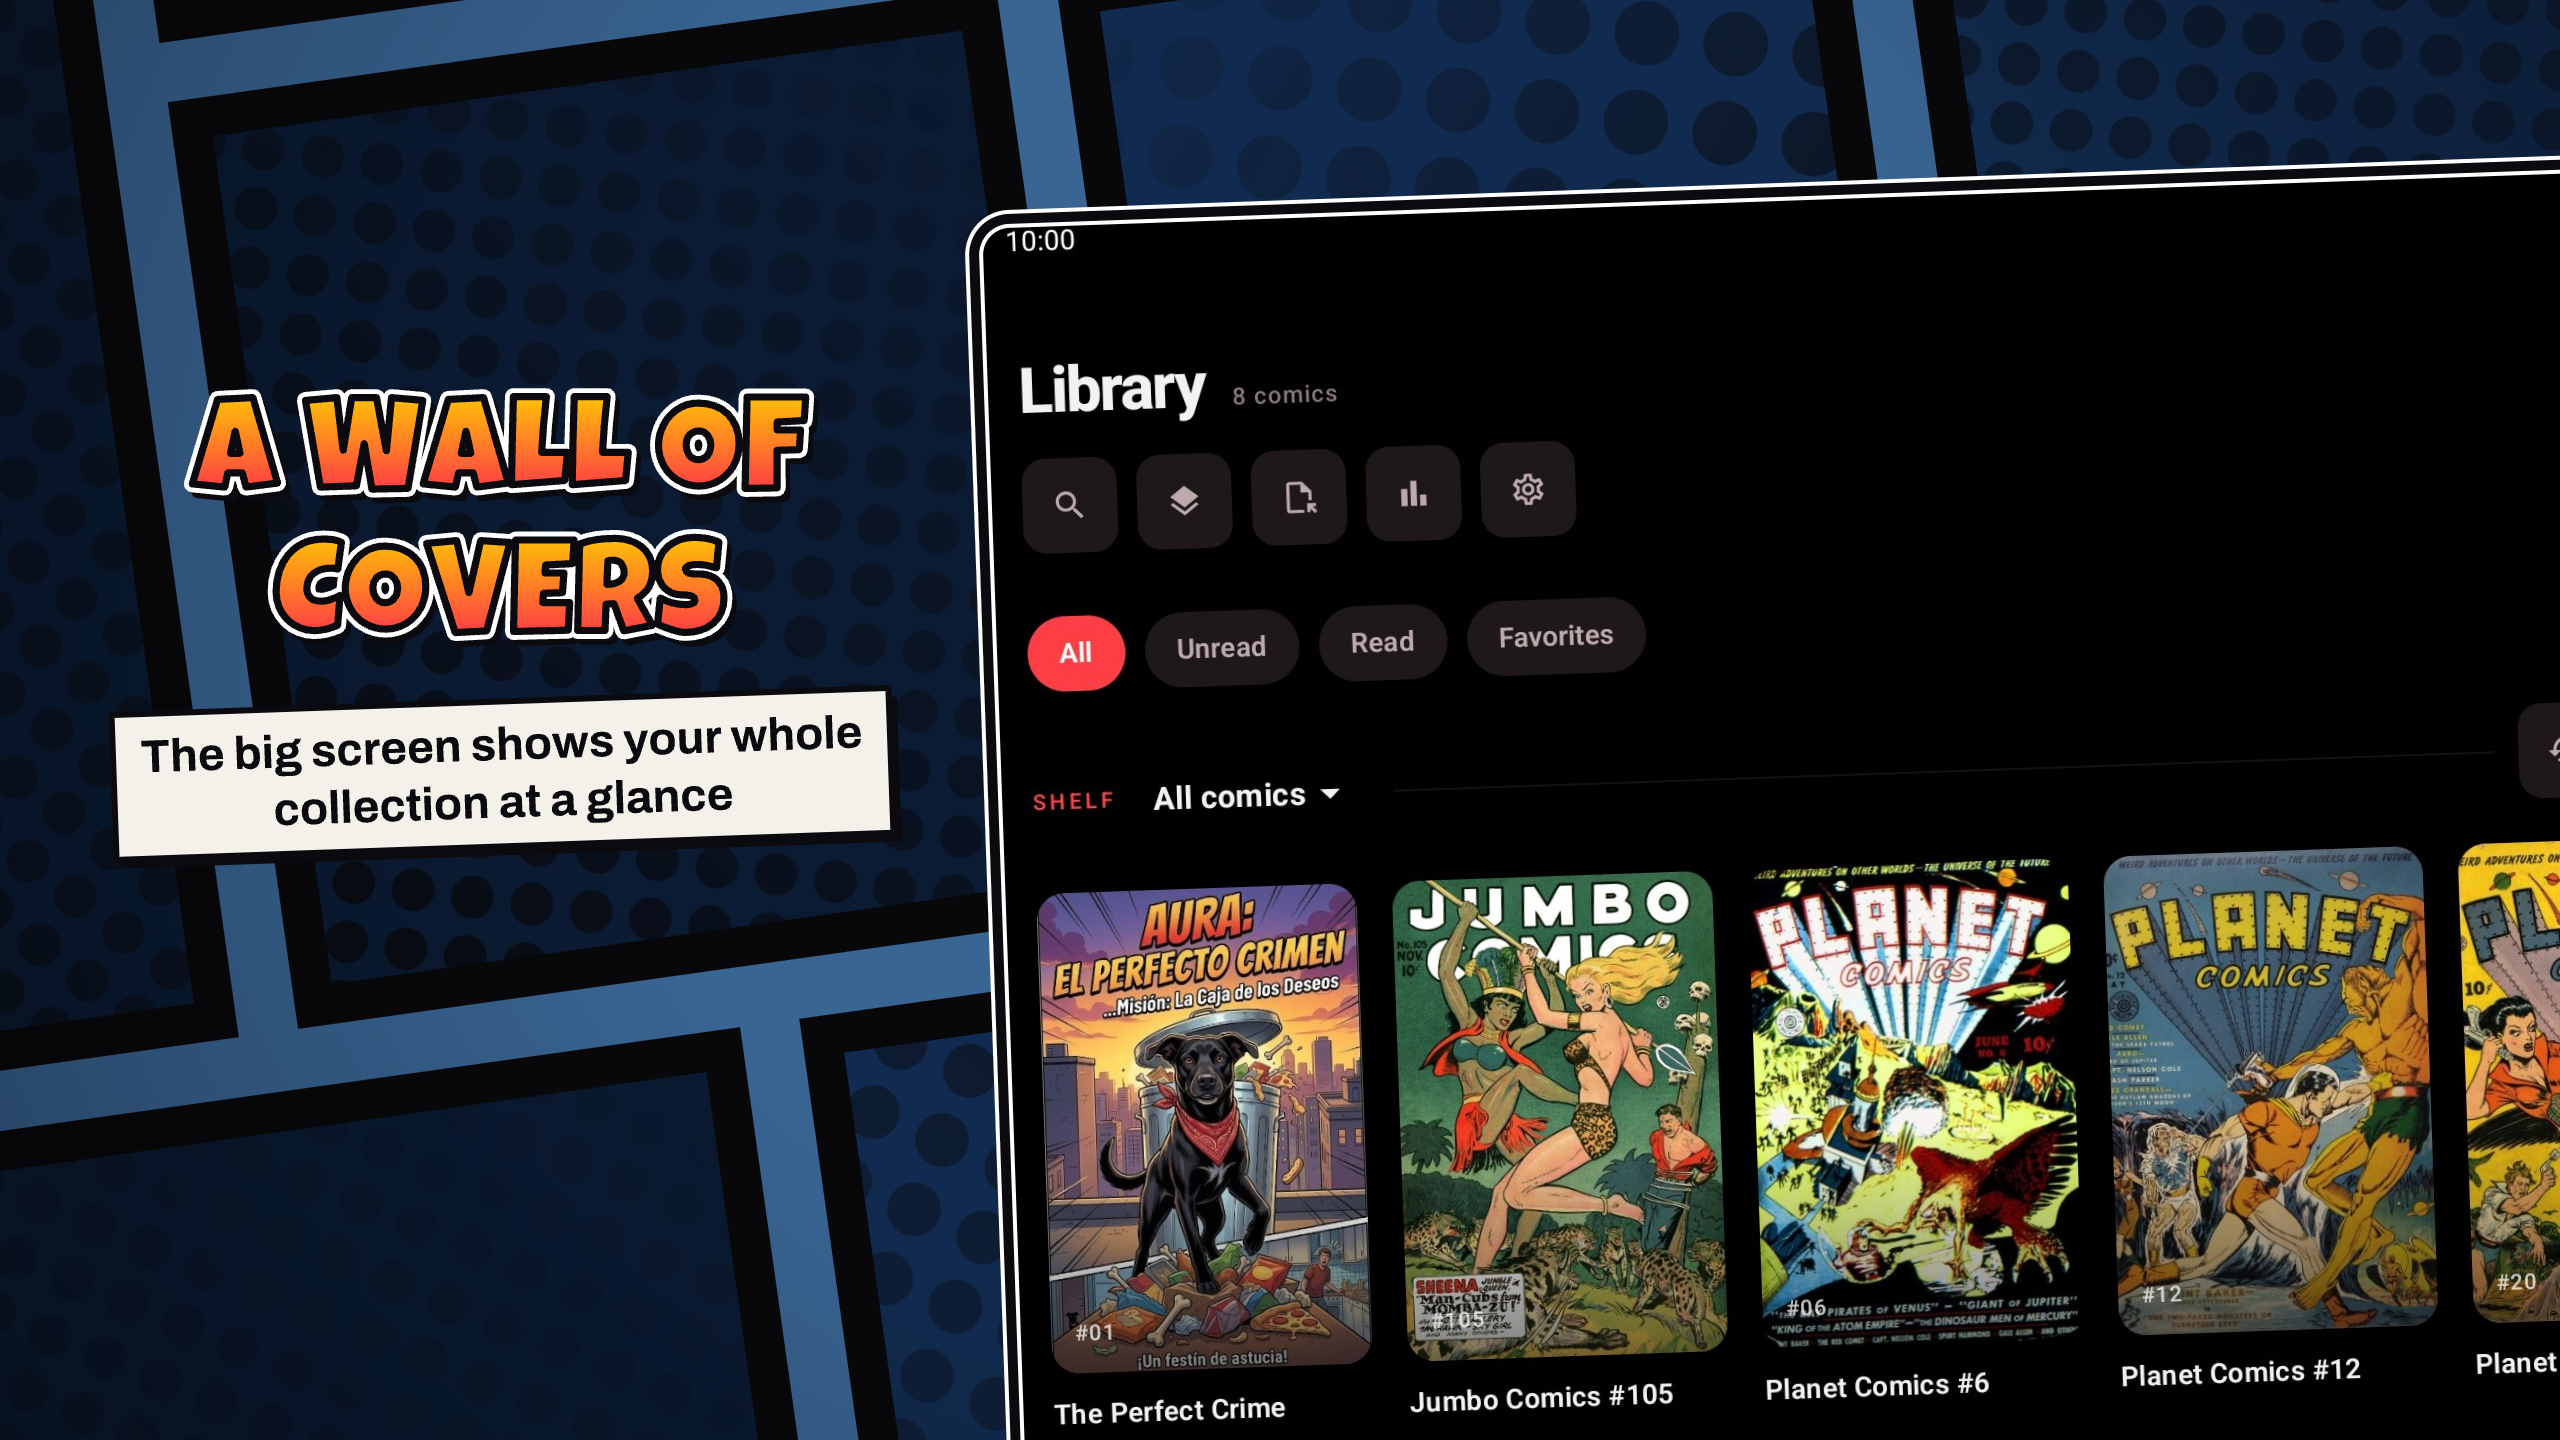
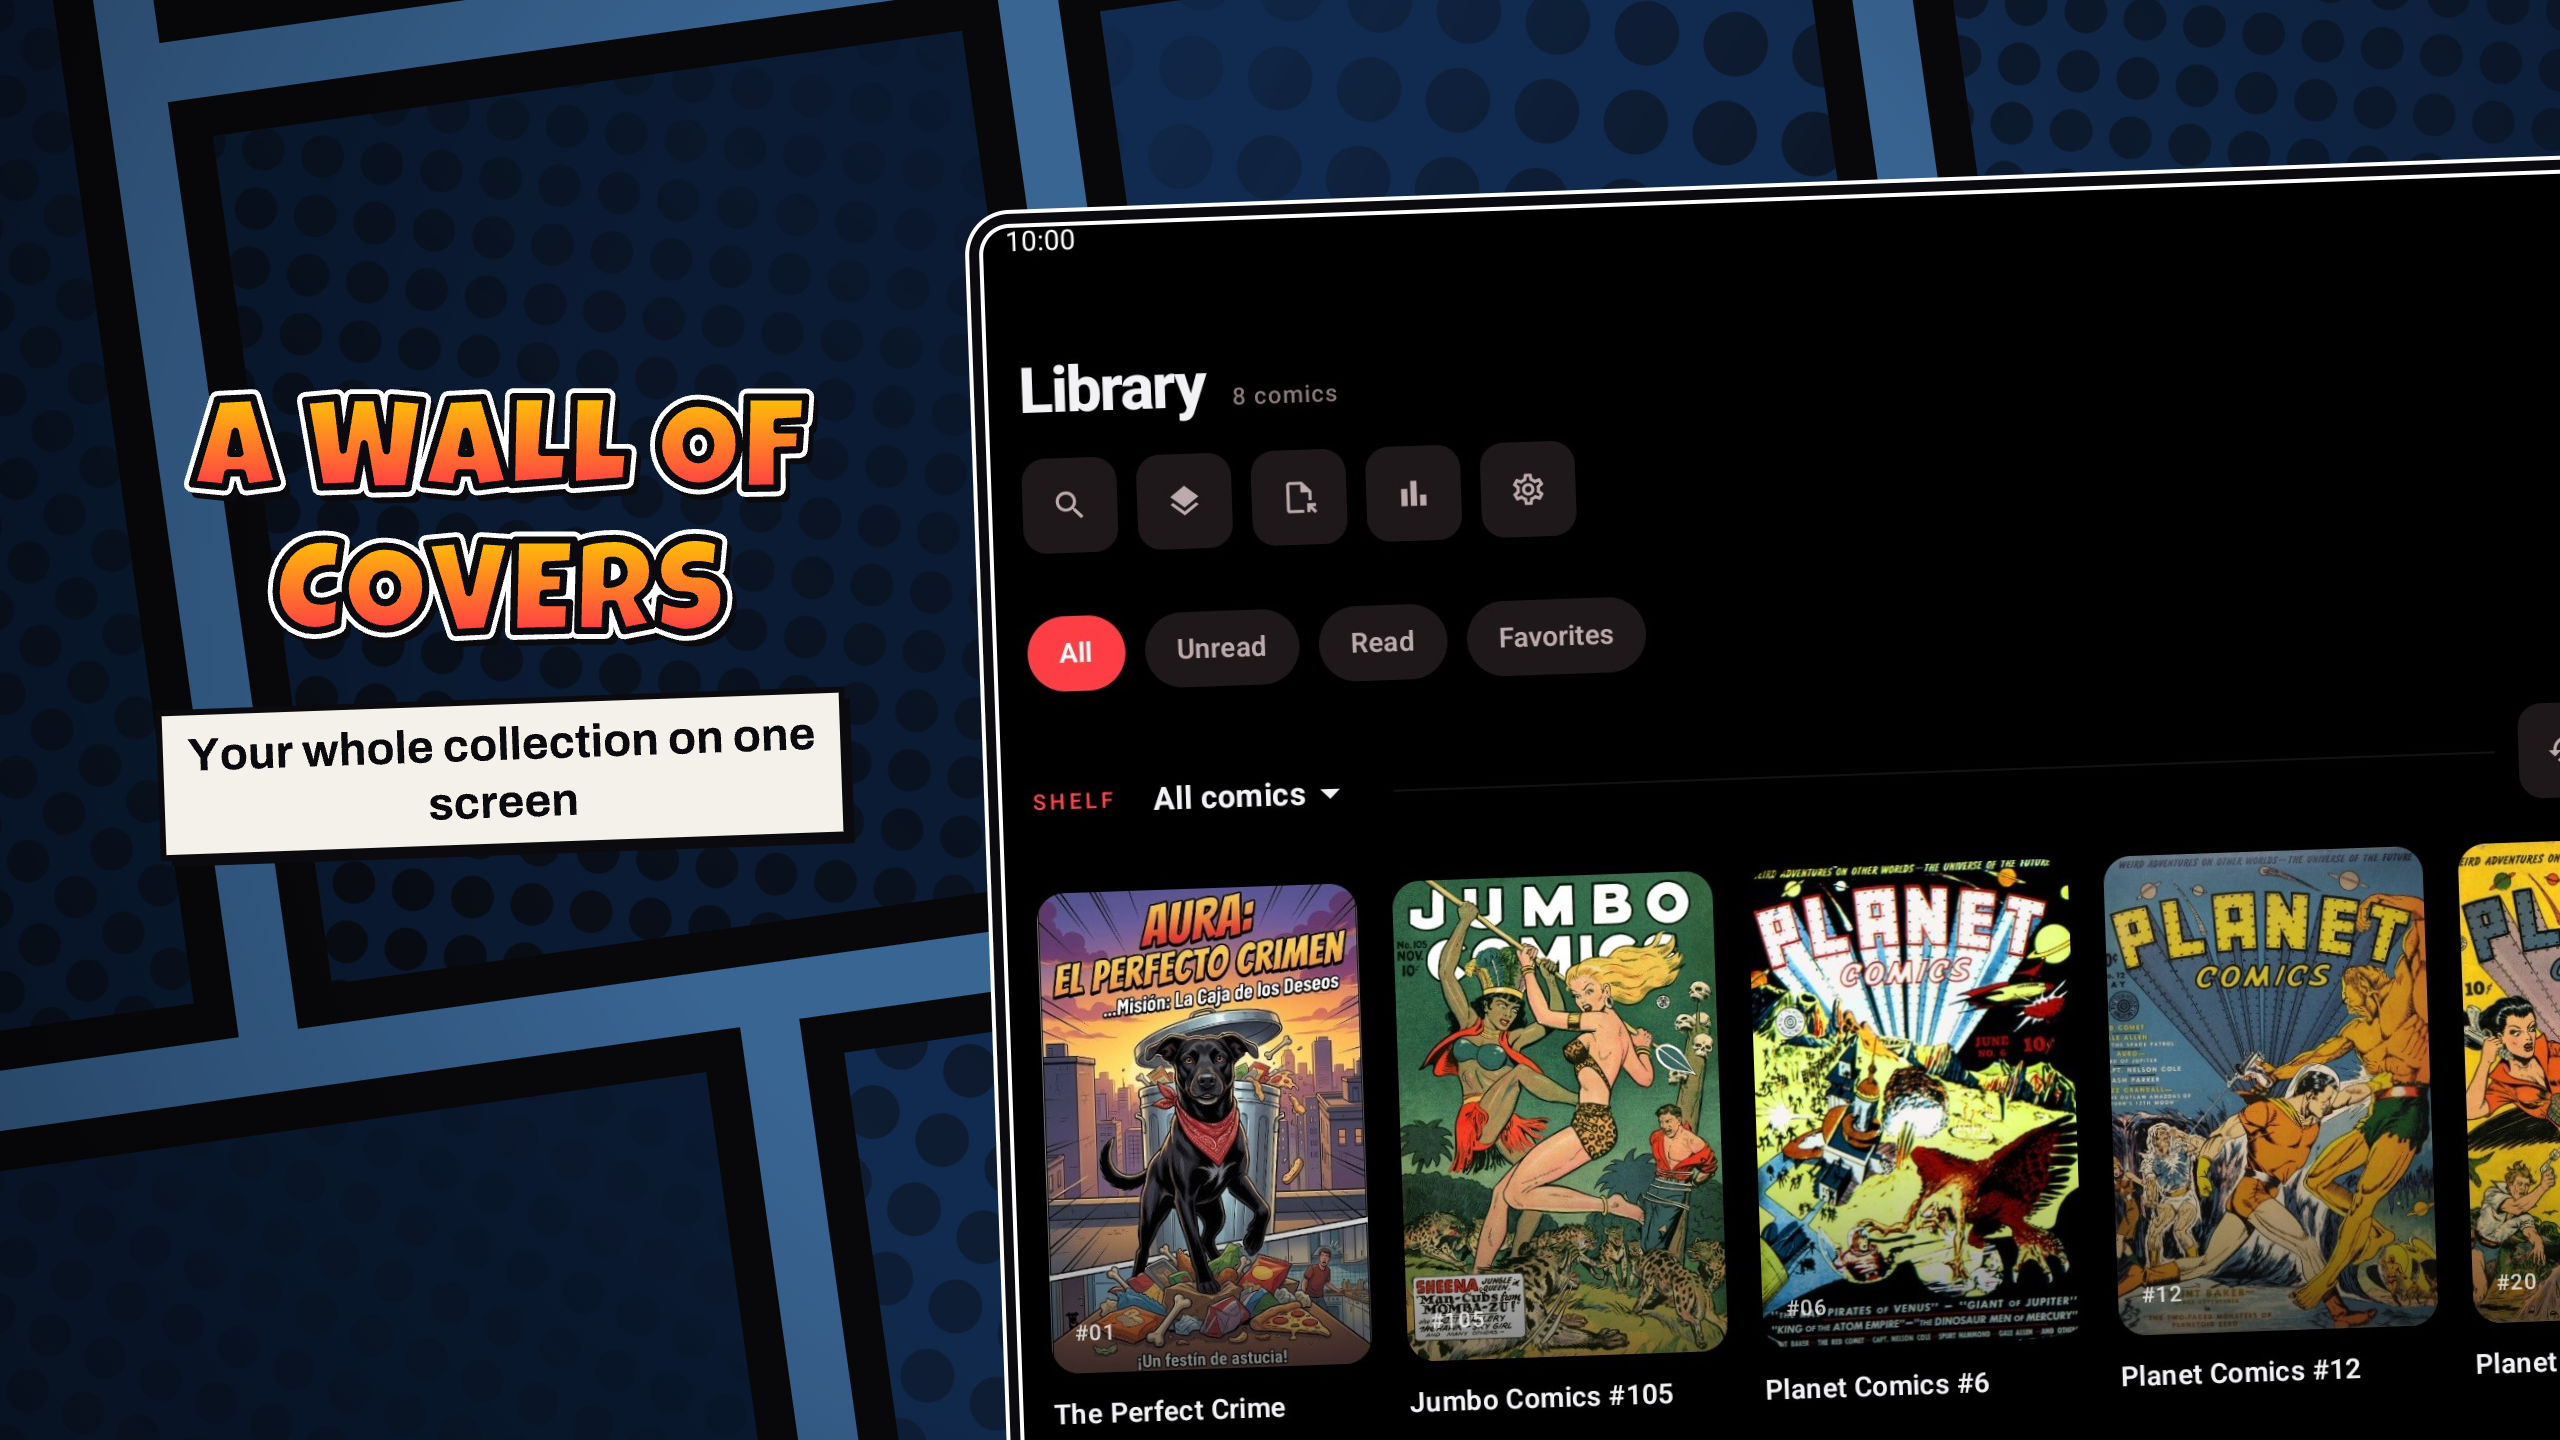
Plain captions and a vertical scroll shot in the store set
Captions become one short factual sentence each, and the phone set gains
the vertical scroll mode as its third slot, next to the other reading modes.

Claude-Session: https://claude.ai/code/session_01EMXWQwmVKSLwBJMKXXfnNE

Changed region(s): [[0.0312, 0.4688, 0.375, 0.625]]

diff --git a/tools/store_assets/screenshots.py b/tools/store_assets/screenshots.py
@@ -21,26 +21,28 @@ TABLET = (2560, 1440)
 LANGS = ("en-US", "es-ES")
 
 SHOTS = [
-    ("phone", "bubbles", {"en-US": ("BIGGER BUBBLES!", "Small lettering? Kapow makes the balloons bigger, right on the page"),
-                          "es-ES": ("¡BOCADILLOS XL!", "¿Letra pequeña? Kapow agranda los bocadillos ahí mismo, en la página")}),
-    ("phone", "guided", {"en-US": ("GUIDED VIEW!", "Read panel by panel: tap, and the next one fills your screen"),
-                         "es-ES": ("¡VIÑETA A VIÑETA!", "Lee viñeta a viñeta: un toque y la siguiente ocupa toda la pantalla")}),
-    ("phone", "library", {"en-US": ("YOUR SHELF!", "Point Kapow at your folder and it turns into a shelf, series by series"),
-                          "es-ES": ("¡TU ESTANTERÍA!", "Señala tu carpeta y Kapow la convierte en una estantería, serie por serie")}),
-    ("phone", "pagelook", {"en-US": ("OLD SCANS, FIXED", "That yellowed scan from 1952? One tap and it reads like new"),
-                           "es-ES": ("PÁGINAS COMO NUEVAS", "¿Ese escaneo amarillento de 1952? Un toque y se lee como nuevo")}),
-    ("phone", "search", {"en-US": ("FIND IT FAST", "Type a series, a writer or a year and the right issues show up"),
-                         "es-ES": ("ENCUÉNTRALO YA", "Escribe una serie, un guionista o un año y salen justo esos números")}),
-    ("phone", "settings", {"en-US": ("YOUR LOOK", "Pure black for OLED, graphite or paper, plus the accent you like"),
-                           "es-ES": ("A TU GUSTO", "Negro puro para OLED, grafito o papel, y el acento que más te guste")}),
-    ("tablet", "spread", {"en-US": ("TWO PAGES, AS PRINTED", "On a tablet or an open foldable you read the spread, just like paper"),
-                          "es-ES": ("DOBLE PÁGINA", "En tablet o con el plegable abierto lees la doble página, como en papel")}),
-    ("tablet", "bubbles-spread", {"en-US": ("BIGGER BUBBLES!", "Bigger balloons on the spread too, no need to lean in"),
-                                  "es-ES": ("¡BOCADILLOS XL!", "También en la doble página los bocadillos crecen, sin acercarte a la pantalla")}),
-    ("tablet", "guided-spread", {"en-US": ("GUIDED VIEW ON SPREADS", "Panel by panel across both pages, whichever side the story is on"),
-                                 "es-ES": ("VIÑETA A VIÑETA", "Viñeta a viñeta por las dos páginas, esté donde esté la historia")}),
-    ("tablet", "library", {"en-US": ("A WALL OF COVERS", "The big screen shows your whole collection at a glance"),
-                           "es-ES": ("PARED DE PORTADAS", "En la pantalla grande cabe toda tu colección de un vistazo")}),
+    ("phone", "bubbles", {"en-US": ("BIGGER BUBBLES!", "Speech bubbles shown bigger, no zooming"),
+                          "es-ES": ("¡BOCADILLOS XL!", "Los bocadillos se ven más grandes sin hacer zoom")}),
+    ("phone", "guided", {"en-US": ("GUIDED VIEW", "Each tap takes you to the next panel"),
+                         "es-ES": ("VIÑETA A VIÑETA", "Cada toque te lleva a la siguiente viñeta")}),
+    ("phone", "scroll", {"en-US": ("VERTICAL SCROLL", "Read by scrolling, no page turns"),
+                         "es-ES": ("SCROLL VERTICAL", "Lee pasando el dedo, sin cambiar de página")}),
+    ("phone", "library", {"en-US": ("YOUR SHELF", "Pick a folder and your comics get sorted by series"),
+                          "es-ES": ("TU ESTANTERÍA", "Elige la carpeta y los cómics se ordenan por serie")}),
+    ("phone", "pagelook", {"en-US": ("OLD SCANS", "More contrast for yellowed pages"),
+                           "es-ES": ("ESCANEOS VIEJOS", "Más contraste para las páginas amarillentas")}),
+    ("phone", "search", {"en-US": ("SEARCH", "Search by series, writer or year"),
+                         "es-ES": ("BÚSQUEDA", "Busca por serie, guionista o año")}),
+    ("phone", "settings", {"en-US": ("YOUR LOOK", "Black, graphite or paper background and the colour you want"),
+                           "es-ES": ("A TU GUSTO", "Fondo negro, grafito o papel y el color que quieras")}),
+    ("tablet", "spread", {"en-US": ("TWO PAGES", "On a tablet you read two pages at a time"),
+                          "es-ES": ("DOBLE PÁGINA", "En tablet se lee a doble página")}),
+    ("tablet", "bubbles-spread", {"en-US": ("BIGGER BUBBLES!", "On the spread too"),
+                                  "es-ES": ("¡BOCADILLOS XL!", "También en la doble página")}),
+    ("tablet", "guided-spread", {"en-US": ("GUIDED VIEW", "Works on spreads too"),
+                                 "es-ES": ("VIÑETA A VIÑETA", "Funciona también a doble página")}),
+    ("tablet", "library", {"en-US": ("A WALL OF COVERS", "Your whole collection on one screen"),
+                           "es-ES": ("PARED DE PORTADAS", "Toda la colección en una pantalla")}),
 ]
 COMPARE_SHOTS = {
     "bubbles": {"en-US": ("BEFORE", "AFTER"), "es-ES": ("ANTES", "DESPUÉS")},

diff --git a/docs/release.md b/docs/release.md
@@ -138,7 +138,7 @@ panel on the page-grid stage with a shout title and a caption box, sized
 1080×1920 (phone) and 2560×1440 (seven inch: title and caption on the left, the
 capture scaled to a fixed width on the right). Copy for every shot is the
 `SHOTS` table; the order of the table is the store order, chosen in the
-2026-09-06 conversion review (differentiators first: bubbles, Guided View,
+2026-09-06 conversion review (differentiators first: bubbles, Guided View, vertical scroll,
 shelf, page look, search, look; tablets: spread, bubbles on the
 spread, Guided View on the spread, wall of covers).
 
